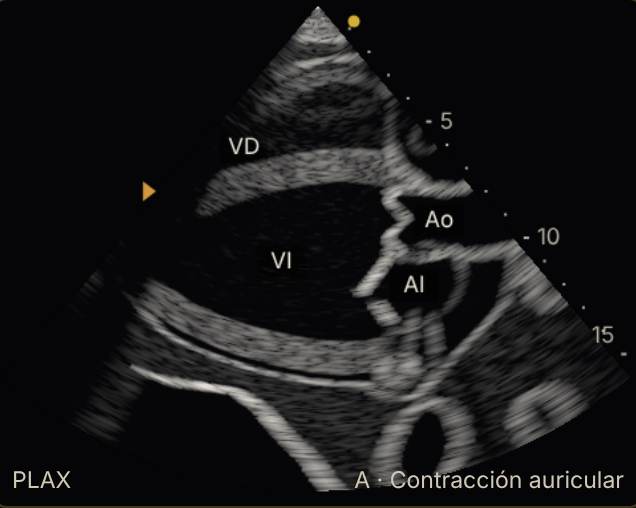
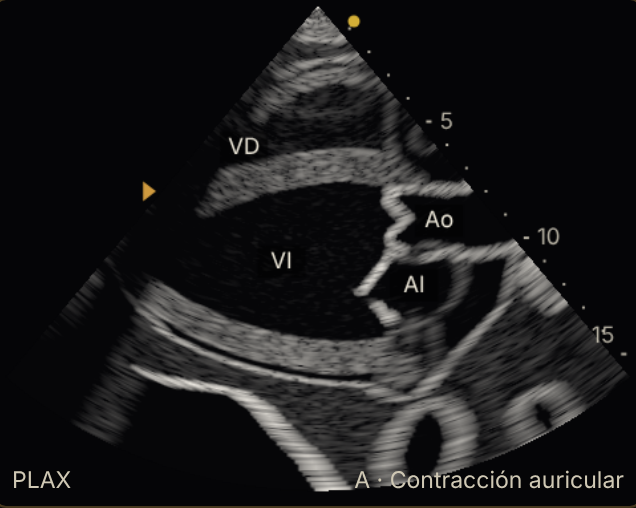
Eco: calibra el brillo del dibujo nuevo (menos caída con la profundidad, sombra 1,6, borde 1 dB, pared libre del VD realzada) y herramienta brillo-zonas
Claude-Session: https://claude.ai/code/session_01QiKC3AcfFSk1UttXhkeNUc

diff --git a/js/data/eco-tejidos.js b/js/data/eco-tejidos.js
@@ -36,18 +36,18 @@ export const PERICARDIO_FINO = { db: 3.5, ancho: 1.1, moteadoDb: 3, origen: 'ilu
 // Caída del brillo con la profundidad del dibujo nuevo (dB por mm, neta tras la TGC; ilustrativo): el tejido blando atenúa
 // y la TGC lo compensa solo en parte (POCUS I cap. 2, docs/tamagnone-pocus-ecografia-critica-muestra-parte1.pdf#page=9, impresa 41:
 // el capítulo da los mandos de ganancia, no cifras). El campo lejano nunca supera al medio.
-export const CAIDA_PROFUNDIDAD = { desdeMm: 20, dbPorMm: 0.09, origen: 'ilustrativo' };
+export const CAIDA_PROFUNDIDAD = { desdeMm: 20, dbPorMm: 0.06, origen: 'ilustrativo' };
 // Caída lateral (dibujo nuevo): el haz fuera del eje está menos enfocado y recibe menos energía, el brillo baja hacia los bordes
 // del abanico (dB en el borde, ∝ e²; ilustrativo; la teoría de la sonda de sector, POCUS I cap. 2, p. 41 impresa, no da cifras).
 export const CAIDA_LATERAL = { dbBorde: 5, topeDb: 5, origen: 'ilustrativo' };
 // Borde endocárdico (dibujo nuevo): interfaz sangre-tejido, unos dB sobre el miocardio medio, sin ser una línea dibujada (ilustrativo).
-export const BORDE_ENDO = { db: 2.5, origen: 'ilustrativo' };
+export const BORDE_ENDO = { db: 1, origen: 'ilustrativo' };
 // Surco AV, coronarias, venas y seno coronario del dibujo nuevo: cortan el plano como bandas que se cruzan detrás de la aurícula (la «cruz»
 // del PLAX); se apagan unos dB para que no compitan con la pared posterior (ilustrativo).
 export const SURCOS_NUEVO = { db: -9, origen: 'ilustrativo' };
 // Sombra y refuerzo del dibujo nuevo (multiplican los de hoy; ilustrativo): detrás de lo muy ecogénico (pericardio, costilla) el
 // haz pierde más energía, y detrás de la sangre queda más (refuerzo posterior; POCUS I cap. 2, impresa 41, solo lo describe).
-export const SOMBRA_NUEVA = { sombra: 2.2, refuerzo: 1.6, origen: 'ilustrativo' };
+export const SOMBRA_NUEVA = { sombra: 1.6, refuerzo: 1.6, origen: 'ilustrativo' };
 // Septo interauricular fino (fosa oval) en el A4C: paralelo al haz, se pierde a tramos (dropout). Fracción de tramos y dB: ilustrativo
 // (Mitchell 2019, ASE, describe el dropout del septo interauricular como artefacto; no da cifras).
 export const DROPOUT_SEPTO = { umbral: 0.15, db: 22, origen: 'ilustrativo' };
@@ -56,3 +56,6 @@ export const DB_IMAGEN = {
   borde: { db: -9, origen: 'ilustrativo' },        // borde endocárdico fino
   especular: { db: 9, origen: 'ilustrativo' },     // reflejo especular extra cuando el haz es perpendicular
 };
+// Pared libre del VD en el dibujo nuevo: es fina y el haz la corta oblicua; en vez de los −3 dB de hoy (más tenue que el VI) se
+// realza unos dB para que se vea al menos al 60 % del tabique (ilustrativo; fisiología general: el VD es músculo, solo más delgado).
+export const PARED_VD_NUEVO = { db: 4, origen: 'ilustrativo' };

diff --git a/autonomo/bloques/mv-eco/capturas-realismo/cifras.md b/autonomo/bloques/mv-eco/capturas-realismo/cifras.md
@@ -5,10 +5,37 @@
 - titulo: A4C
 - grav: 
 - Último latido: PA 105/66 (PAM 86) · FC 69 · GC 5.1 L/min · PVC 4
-- VI: 119 mL · 10 mmHg
-- VD: 138 mL · 6 mmHg
+- VI en esta fase: 119 mL · 10 mmHg
+- VD en esta fase: 138 mL · 6 mmHg
 - Aorta: 71 mmHg · AP 13
 - Aurículas: AI 25 · AD 18 mL
+- VI/VD telediastólico (el que dibuja la imagen): VI 120 mL · VD 138 mL
+- motor: FC 69 · PAM 86 · PA 105/undefined · GC 5.07 · PVC 4.3
+- pantalla: mezcla
+
+## normal-psax (normal, psaxPm, dibujo 2)
+- fase: A · Contracción auricular
+- titulo: PSAX papilares
+- grav: 
+- Último latido: PA 105/66 (PAM 86) · FC 69 · GC 5.1 L/min · PVC 4
+- VI en esta fase: 119 mL · 10 mmHg
+- VD en esta fase: 138 mL · 6 mmHg
+- Aorta: 71 mmHg · AP 13
+- Aurículas: AI 25 · AD 18 mL
+- VI/VD telediastólico (el que dibuja la imagen): VI 120 mL · VD 138 mL
+- motor: FC 69 · PAM 86 · PA 105/undefined · GC 5.07 · PVC 4.3
+- pantalla: mezcla
+
+## normal-plax (normal, plax, dibujo 2)
+- fase: A · Contracción auricular
+- titulo: PLAX
+- grav: 
+- Último latido: PA 105/66 (PAM 86) · FC 69 · GC 5.1 L/min · PVC 4
+- VI en esta fase: 119 mL · 10 mmHg
+- VD en esta fase: 138 mL · 6 mmHg
+- Aorta: 71 mmHg · AP 13
+- Aurículas: AI 25 · AD 18 mL
+- VI/VD telediastólico (el que dibuja la imagen): VI 120 mL · VD 138 mL
 - motor: FC 69 · PAM 86 · PA 105/undefined · GC 5.07 · PVC 4.3
 - pantalla: mezcla
 
@@ -17,10 +44,11 @@
 - titulo: A4C
 - grav: resistencia pulmonar ×12,0, pared del VD ×2,4. Ilustrativo: 0 % es el corazón normal y 100 %, el VD que claudica.
 - Último latido: PA 85/67 (PAM 76) · FC 94 · GC 3.0 L/min · PVC 15
-- VI: 60 mL · 9 mmHg
-- VD: 228 mL · 20 mmHg
+- VI en esta fase: 60 mL · 9 mmHg
+- VD en esta fase: 228 mL · 20 mmHg
 - Aorta: 70 mmHg · AP 46
 - Aurículas: AI 23 · AD 42 mL
+- VI/VD telediastólico (el que dibuja la imagen): VI 60 mL · VD 228 mL
 - motor: FC 94 · PAM 76 · PA 85/undefined · GC 3.02 · PVC 15.5
 - pantalla: mezcla
 
@@ -29,10 +57,11 @@
 - titulo: PSAX papilares
 - grav: resistencia pulmonar ×12,0, pared del VD ×2,4. Ilustrativo: 0 % es el corazón normal y 100 %, el VD que claudica.
 - Último latido: PA 85/67 (PAM 76) · FC 94 · GC 3.0 L/min · PVC 15
-- VI: 60 mL · 9 mmHg
-- VD: 228 mL · 20 mmHg
+- VI en esta fase: 60 mL · 9 mmHg
+- VD en esta fase: 228 mL · 20 mmHg
 - Aorta: 70 mmHg · AP 46
 - Aurículas: AI 23 · AD 42 mL
+- VI/VD telediastólico (el que dibuja la imagen): VI 60 mL · VD 228 mL
 - motor: FC 94 · PAM 76 · PA 85/undefined · GC 3.02 · PVC 15.5
 - pantalla: mezcla
 
@@ -41,10 +70,11 @@
 - titulo: A4C
 - grav: resistencia pulmonar ×6,6. Riesgo alto (masivo): disfunción del VD con inestabilidad hemodinámica, PAM <70 mmHg (Marino cap. 22, PDF p. 7; cap. 14, PDF p. 2). Ilustrativo: 0 % es el corazón normal y 100 %, el TEP de alto riesgo a fondo (masivo: hipotensión, PAM <70 mmHg; Marino cap. 22, PDF p. 7, y cap. 14, PDF p. 2).
 - Último latido: PA 65/53 (PAM 59) · FC 119 · GC 2.3 L/min · PVC 9
-- VI: 29 mL · 2 mmHg
-- VD: 219 mL · 18 mmHg
+- VI en esta fase: 29 mL · 2 mmHg
+- VD en esta fase: 219 mL · 18 mmHg
 - Aorta: 57 mmHg · AP 23
 - Aurículas: AI 30 · AD 32 mL
+- VI/VD telediastólico (el que dibuja la imagen): VI 45 mL · VD 219 mL
 - motor: FC 119 · PAM 59 · PA 65/undefined · GC 2.34 · PVC 9.4
 - pantalla: mezcla
 
@@ -53,11 +83,64 @@
 - titulo: PSAX papilares
 - grav: resistencia pulmonar ×6,6. Riesgo alto (masivo): disfunción del VD con inestabilidad hemodinámica, PAM <70 mmHg (Marino cap. 22, PDF p. 7; cap. 14, PDF p. 2). Ilustrativo: 0 % es el corazón normal y 100 %, el TEP de alto riesgo a fondo (masivo: hipotensión, PAM <70 mmHg; Marino cap. 22, PDF p. 7, y cap. 14, PDF p. 2).
 - Último latido: PA 65/53 (PAM 59) · FC 119 · GC 2.3 L/min · PVC 9
-- VI: 29 mL · 2 mmHg
-- VD: 219 mL · 18 mmHg
+- VI en esta fase: 29 mL · 2 mmHg
+- VD en esta fase: 219 mL · 18 mmHg
 - Aorta: 57 mmHg · AP 23
 - Aurículas: AI 30 · AD 32 mL
+- VI/VD telediastólico (el que dibuja la imagen): VI 45 mL · VD 219 mL
 - motor: FC 119 · PAM 59 · PA 65/undefined · GC 2.34 · PVC 9.4
+- pantalla: mezcla
+
+## dilatada-a4c (dilatada, g=1, a4c, dibujo 2)
+- fase: A · Contracción auricular
+- titulo: A4C
+- grav: 
+- Último latido: PA 92/68 (PAM 80) · FC 85 · GC 3.7 L/min · PVC 9
+- VI en esta fase: 210 mL · 30 mmHg
+- VD en esta fase: 155 mL · 14 mmHg
+- Aorta: 73 mmHg · AP 31
+- Aurículas: AI 71 · AD 22 mL
+- VI/VD telediastólico (el que dibuja la imagen): VI 211 mL · VD 155 mL
+- motor: FC 85 · PAM 80 · PA 92/undefined · GC 3.75 · PVC 9.3
+- pantalla: mezcla
+
+## derrame-sc4c (derrame, g=1, sc4c, dibujo 2)
+- fase: A · Contracción auricular
+- titulo: SC 4C
+- grav: 377 mL de derrame. Ilustrativo: 0 % es el corazón normal y 100 %, el taponamiento a fondo.
+- Último latido: PA 66/54 (PAM 60) · FC 118 · GC 2.4 L/min · PVC 10
+- VI en esta fase: 27 mL · 10 mmHg
+- VD en esta fase: 45 mL · 9 mmHg
+- Aorta: 58 mmHg · AP 14
+- Aurículas: AI 30 · AD 18 mL
+- VI/VD telediastólico (el que dibuja la imagen): VI 44 mL · VD 46 mL
+- motor: FC 118 · PAM 60 · PA 66/undefined · GC 2.36 · PVC 10
+- pantalla: mezcla
+
+## hipertrofia-plax (hipertrofia, g=1, plax, dibujo 2)
+- fase: A · Contracción auricular
+- titulo: PLAX
+- grav: rigidez ×2,2, volumen retenido 300 mL. Ilustrativo: 0 % es el corazón normal y 100 %, el grado 2 (seudonormal).
+- Último latido: PA 97/71 (PAM 84) · FC 76 · GC 3.6 L/min · PVC 6
+- VI en esta fase: 88 mL · 32 mmHg
+- VD en esta fase: 162 mL · 10 mmHg
+- Aorta: 75 mmHg · AP 29
+- Aurículas: AI 50 · AD 23 mL
+- VI/VD telediastólico (el que dibuja la imagen): VI 88 mL · VD 162 mL
+- motor: FC 76 · PAM 84 · PA 97/undefined · GC 3.63 · PVC 6.5
+- pantalla: mezcla
+
+## hp-a4c-dibujo-hoy (hpcronica, g=1, a4c, dibujo 1)
+- fase: A · Contracción auricular
+- titulo: A4C
+- grav: resistencia pulmonar ×12,0, pared del VD ×2,4. Ilustrativo: 0 % es el corazón normal y 100 %, el VD que claudica.
+- Último latido: PA 85/67 (PAM 76) · FC 94 · GC 3.0 L/min · PVC 15
+- VI en esta fase: 60 mL · 9 mmHg
+- VD en esta fase: 228 mL · 20 mmHg
+- Aorta: 70 mmHg · AP 46
+- Aurículas: AI 23 · AD 42 mL
+- VI/VD telediastólico (el que dibuja la imagen): VI 60 mL · VD 228 mL
+- motor: FC 94 · PAM 76 · PA 85/undefined · GC 3.02 · PVC 15.5
 - pantalla: mezcla
 
 ## Errores de consola
